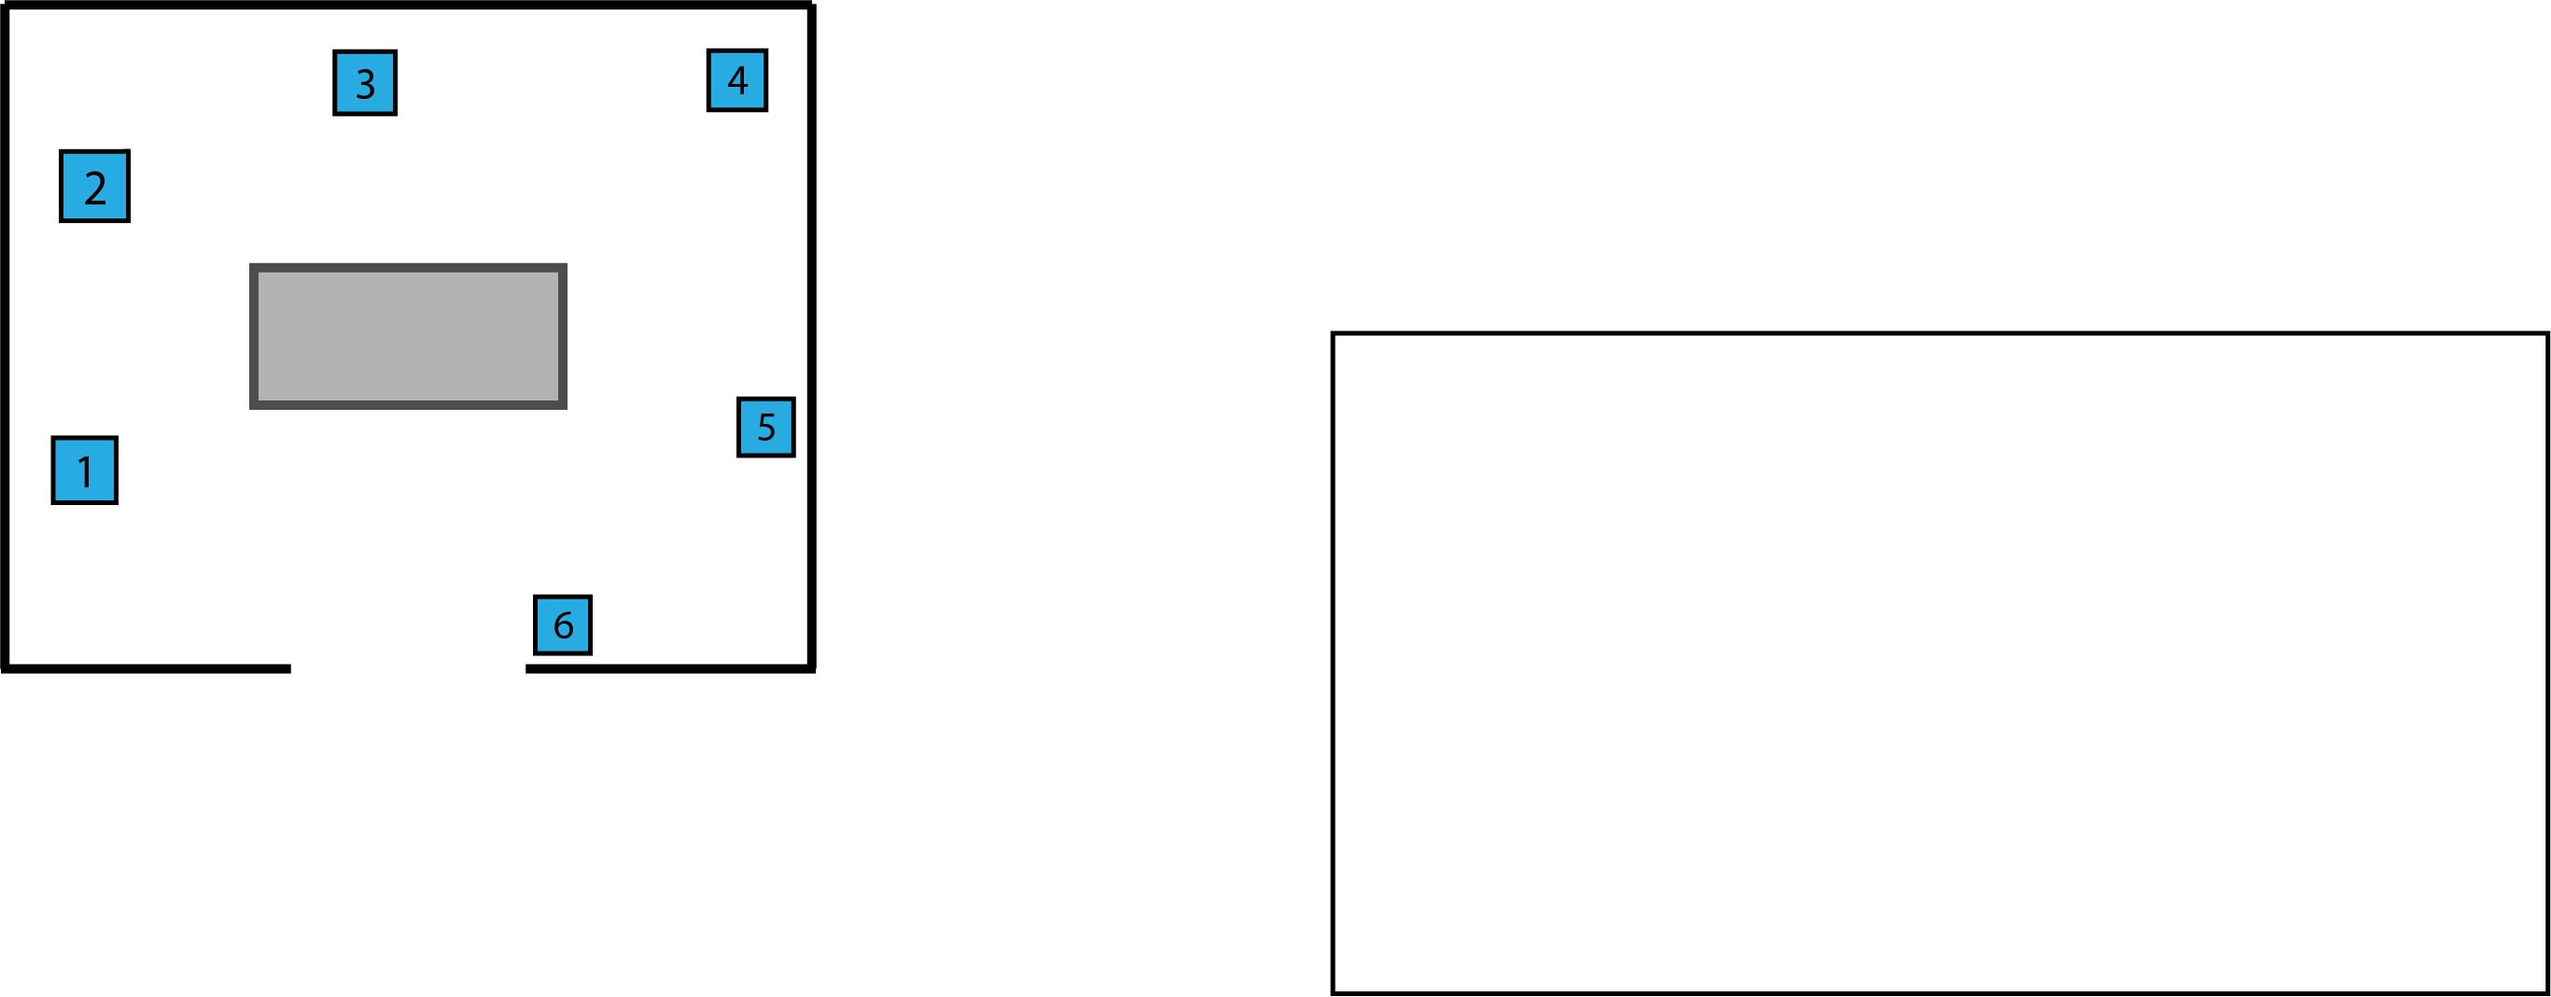
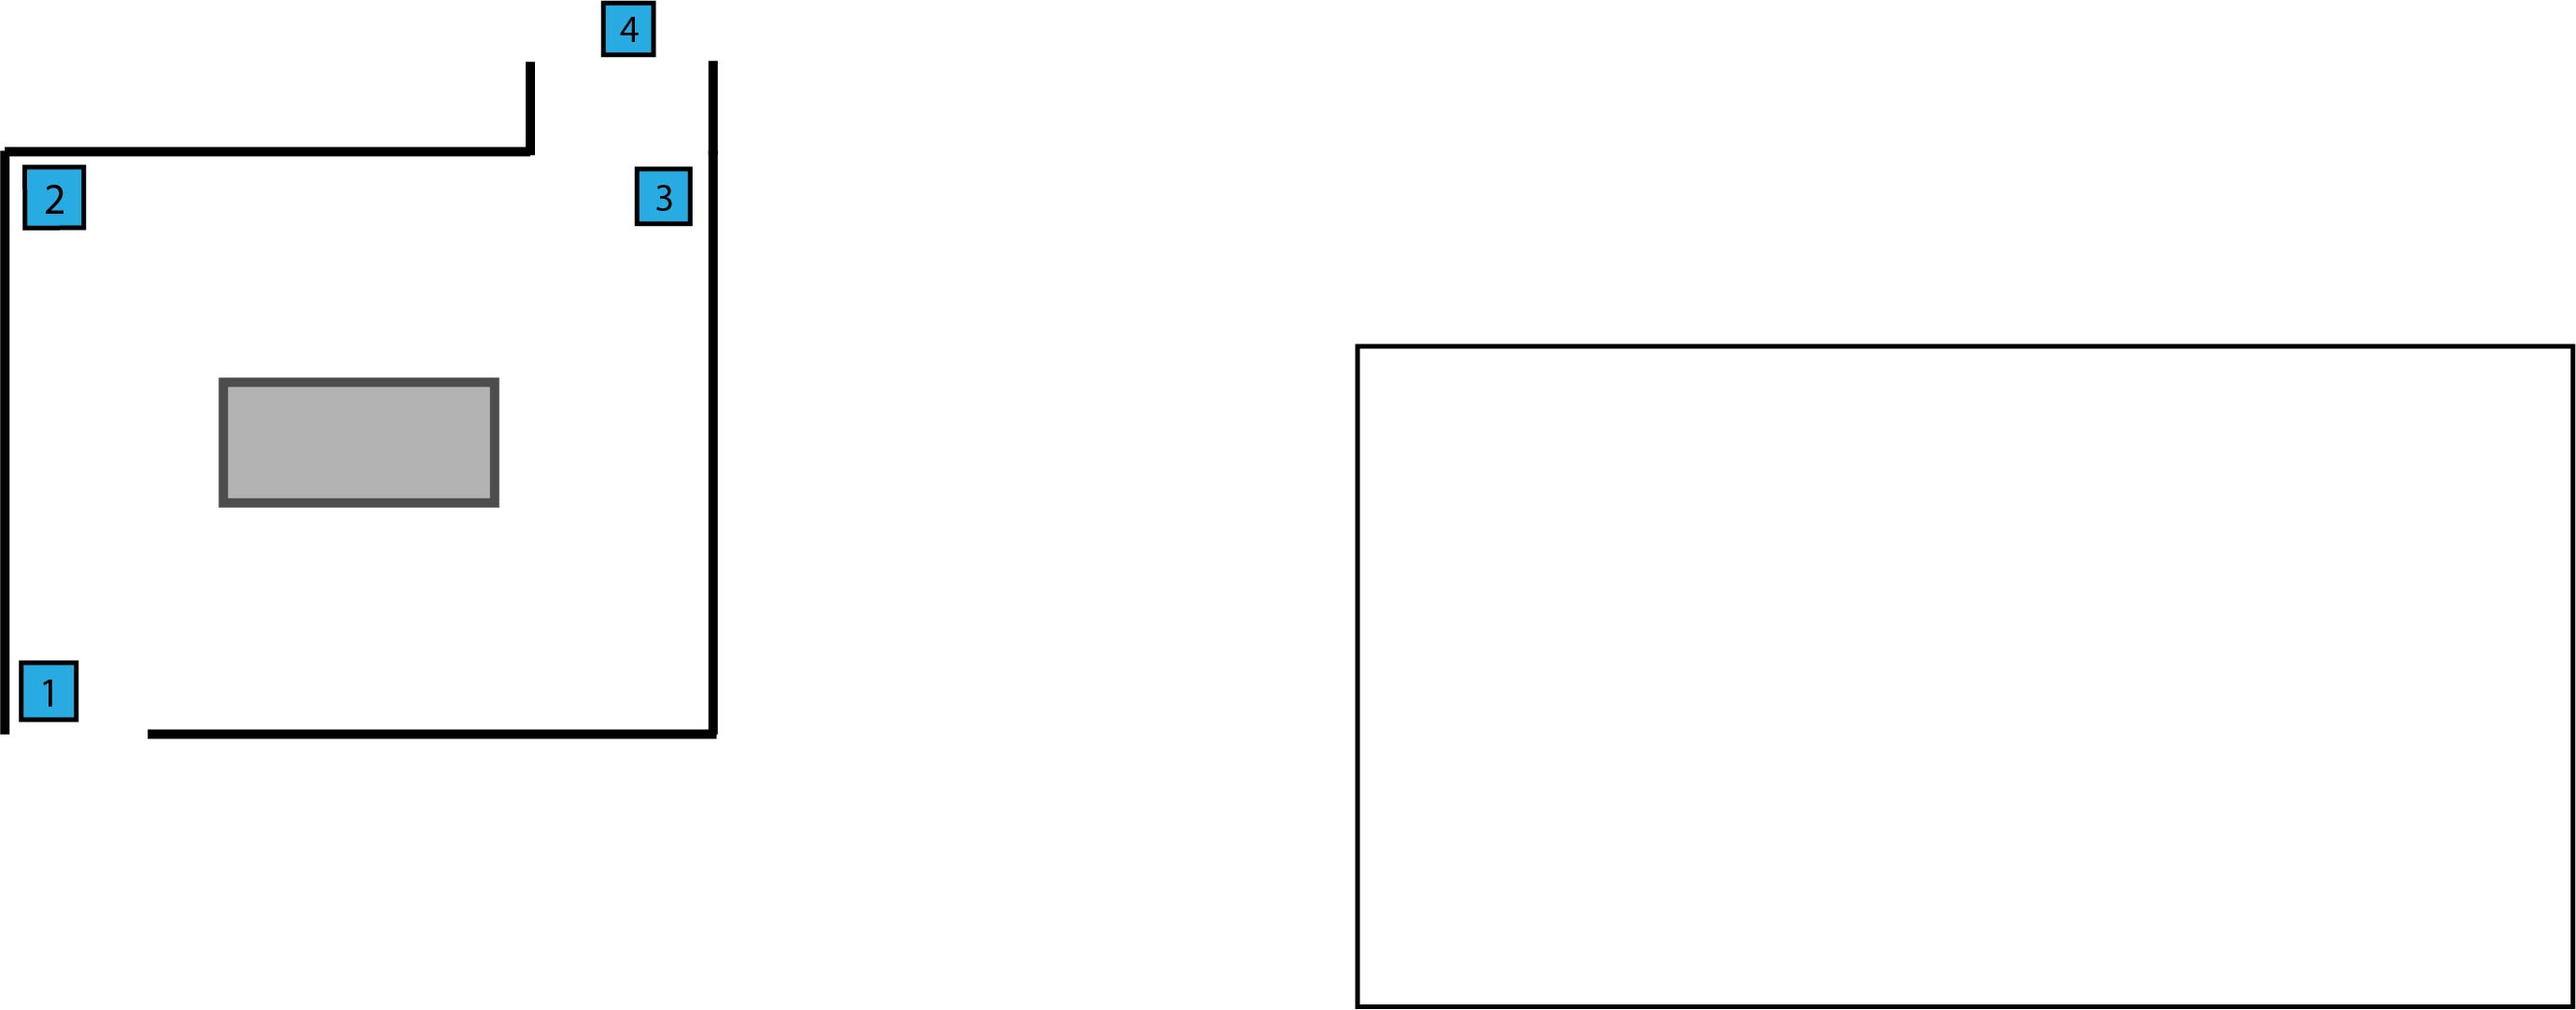
updated map ui

Changed region(s): [[0.0, 0.0, 0.3421, 0.7416], [0.4976, 0.309, 1.0, 1.0], [0.0, 0.6489, 0.1244, 0.7416]]

diff --git a/devastator/app/map_app/mini_map_new.py b/devastator/app/map_app/mini_map_new.py
@@ -1,7 +1,7 @@
 import pygame
 import socket
-from app.pygame_functions import *
-from app.helpers import *
+from pygame_functions import *
+from helpers import *
 
 #
 # pygame.init()
@@ -13,10 +13,10 @@ curr_x = 0.0
 curr_y = 0.0
 
 # # #note:
-# # #Marker 1 is at position (87,505) on map
-# # #Marker 2 is at position (98,200) on map
-# # #Mmarker 3 is at position (390,90) on map
-# # #Marker 4 is at position (790, 90) on map
+# # #Marker 1 is at position (50,740) on map
+# # #Marker 2 is at position (55,210) on map
+# # #Mmarker 3 is at position (715,210) on map
+# # #Marker 4 is at position (670, 40) on map
 # # #Marker 5 is at position (825,460) on map
 # # #Marker 6 is at position (600,665) on map
 
@@ -24,9 +24,9 @@ def init_pos (robot):
     global curr_x
     global curr_y
 
-    moveSprite(robot, 430, 720, True) #init position of robot
-    curr_x = 430
-    curr_y = 720
+    moveSprite(robot, 50, 740, True) #init position of robot
+    curr_x = 50
+    curr_y = 740
 
 def calculate_position(robot,information):
     global curr_x
@@ -37,8 +37,8 @@ def calculate_position(robot,information):
         angle_radians = float(angle_val)*(math.pi/180.0)
         distance_in_metres = information["distanceToMarker"]
         distance =  distance_in_metres * (720.0/3.87)
-        new_x = 87 + float(distance)*math.sin(angle_radians)
-        new_y = 505 + float(distance)*math.cos(angle_radians)
+        new_x = 50 + float(distance)*math.sin(angle_radians)
+        new_y = 740 + float(distance)*math.cos(angle_radians)
         curr_x = new_x
         curr_y  = new_y
         pause(600)
@@ -49,8 +49,8 @@ def calculate_position(robot,information):
         angle_radians = float(angle_val)*(math.pi/180.0)
         distance_in_metres = information["distanceToMarker"]
         distance =  distance_in_metres * (720.0/3.87)
-        new_x = 98 + float(distance)*math.sin(angle_radians)
-        new_y = 200 + float(distance)*math.cos(angle_radians)
+        new_x = 55 + float(distance)*math.sin(angle_radians)
+        new_y = 210 + float(distance)*math.cos(angle_radians)
         curr_x = new_x
         curr_y  = new_y
         pause(600)
@@ -61,8 +61,8 @@ def calculate_position(robot,information):
         angle_radians = float(angle_val)*(math.pi/180.0)
         distance_in_metres = information["distanceToMarker"]
         distance =  distance_in_metres * (720.0/3.87)
-        new_x = 390 + float(distance)*math.sin(angle_radians)
-        new_y = 90 + float(distance)*math.cos(angle_radians)
+        new_x = 715 + float(distance)*math.sin(angle_radians)
+        new_y = 210 + float(distance)*math.cos(angle_radians)
         curr_x = new_x
         curr_y  = new_y
         pause(600)
@@ -73,36 +73,36 @@ def calculate_position(robot,information):
         angle_radians = float(angle_val)*(math.pi/180.0)
         distance_in_metres = information["distanceToMarker"]
         distance =  distance_in_metres * (720.0/3.87)
-        new_x = 790 + float(distance)*math.sin(angle_radians)
-        new_y = 90 + float(distance)*math.cos(angle_radians)
+        new_x = 670 + float(distance)*math.sin(angle_radians)
+        new_y = 40 + float(distance)*math.cos(angle_radians)
         curr_x = new_x
         curr_y  = new_y
         pause(600)
         moveSprite(robot,new_x,new_y,True)
 
-    elif str(information["marker"]) =="5":
-        angle_val = information["angleToMarker"]
-        angle_radians = float(angle_val)*(math.pi/180.0)
-        distance_in_metres = information["distanceToMarker"]
-        distance =  distance_in_metres * (720.0/3.87)
-        new_x = 825 + float(distance)*math.sin(angle_radians)
-        new_y = 460 + float(distance)*math.cos(angle_radians)
-        curr_x = new_x
-        curr_y  = new_y
-        pause(600)
-        moveSprite(robot,new_x,new_y,True)
-
-    elif str(information["marker"]) =="6":
-        angle_val = information["angleToMarker"]
-        angle_radians = float(angle_val)*(math.pi/180.0)
-        distance_in_metres = information["distanceToMarker"]
-        distance =  distance_in_metres * (720.0/3.87)
-        new_x = 600 + float(distance)*math.sin(angle_radians)
-        new_y = 665 + float(distance)*math.cos(angle_radians)
-        curr_x = new_x
-        curr_y  = new_y
-        pause(600)
-        moveSprite(robot,new_x,new_y,True)
+    # elif str(information["marker"]) =="5":
+    #     angle_val = information["angleToMarker"]
+    #     angle_radians = float(angle_val)*(math.pi/180.0)
+    #     distance_in_metres = information["distanceToMarker"]
+    #     distance =  distance_in_metres * (720.0/3.87)
+    #     new_x = 825 + float(distance)*math.sin(angle_radians)
+    #     new_y = 460 + float(distance)*math.cos(angle_radians)
+    #     curr_x = new_x
+    #     curr_y  = new_y
+    #     pause(600)
+    #     moveSprite(robot,new_x,new_y,True)
+    #
+    # elif str(information["marker"]) =="6":
+    #     angle_val = information["angleToMarker"]
+    #     angle_radians = float(angle_val)*(math.pi/180.0)
+    #     distance_in_metres = information["distanceToMarker"]
+    #     distance =  distance_in_metres * (720.0/3.87)
+    #     new_x = 600 + float(distance)*math.sin(angle_radians)
+    #     new_y = 665 + float(distance)*math.cos(angle_radians)
+    #     curr_x = new_x
+    #     curr_y  = new_y
+    #     pause(600)
+    #     moveSprite(robot,new_x,new_y,True)
 
 def place_marker(information):
     if information["objectsDetected"] == "SUSPECT":

diff --git a/devastator/main.py b/devastator/main.py
@@ -37,8 +37,83 @@ if __name__ == "__main__":
 
     """
     while True:
-        get_frame()
-        yolo_detect()
-        acoular_detect()
-        send_to_app()
-    """
+        frame = main()[0]
+        detection = main()[1] #gives a list of dictionaries
+
+        #### assume data structure of detection is:
+        #### eg. detection = [{"depth":0.762,"danger_score":3.44,"equip":[{"label":"Rifle","box":{}}],"label":"Person","box":{}},{"depth":0.762,"danger_score":3.44,"equip":[{"label":"Rifle","box":{}},{"label":"Handgun","box":{}}],"label":"Person","box":{}}]
+        StoreArgs.person_count = len(detection)
+
+        for i in detection:
+            for j in i["equip"]:
+                if j["label"] == "Rifle":
+                    StoreArgs.rifle_count += 1
+
+                elif j["label"] == "Handgun":
+                    StoreArgs.handgun_count += 1
+
+                elif j["label"] == "Knife":
+                    StoreArgs.knife_count += 1
+
+                elif j["label"] == "Jacket":
+                    StoreArgs.jacket_count += 1
+
+                elif j["label"] == "Sunglasses":
+                    StoreArgs.sunglass_count += 1
+
+                elif j["label"] == "Police":
+                    StoreArgs.police_count += 1
+
+                elif j["label"] == "Hat":
+                    StoreArgs.hat_count += 1
+
+        ###format the data for objects of interest to parse into report ui app
+        StoreArgs.obj_of_interest = "Handgun: " + str(StoreArgs.handgun_count) + "  <p/> " + "Jacket: " + str(StoreArgs.jacket_count) + " <p/> " + "Knife: " + str(StoreArgs.knife_count) + " <p/> " + "Person: " + str(StoreArgs.person_count) + " <p/> " + "Rifle " + str(rifle_count) + " <p/> " + "Sunglasses: " + str(StoreArgs.sunglass_count) + " <p/> " + "Police: " + str(StoreArgs.police_count) + " <p/> "
+        JSON_INFO = {
+            "data": {
+                "logs1": {
+                    "Time_Stamp": "12:10:17",
+                    "Robot_Coordinates": "x,y,z",
+                    "Threat_Direction": "x,y,z",
+                    "Emotions_Present": "Fear",
+                    "Gunshots": "Detected",
+                    "Objects_Of_Interest": StoreArgs.obj_of_interest,
+                    "More_Details": "<a href= www.google.com.sg>www.viewmorehere.com  </a>"
+                }
+            }
+        }
+
+
+
+
+        # #--------- get yolo frame ---------
+        # input_stream = StoreArgs.input_stream
+        # host = StoreArgs.host
+        # port = StoreArgs.port
+        #
+        # frame = get_frame(input_stream, host, port) #host and port from call_yolo_display
+        #
+        # # ------------------------------------------- Loading model to the plugin -----------------------------------------
+        # device = StoreArgs.device
+        # labels = StoreArgs.labels
+        # model_xml = StoreArgs.model_xml
+        # model_bin = StoreArgs.model_bin
+        # plugin_dir = StoreArgs.plugin_dir
+        # cpu_extension = StoreArgs.cpu_extension
+        #
+        # net, exec_net = load_model(device, labels, model_xml, model_bin, plugin_dir, cpu_extension)
+        #
+        # #----------------------- yolo detection ------------------------
+        # # mapping labels
+        # labels_map = StoreArgs.labels_map
+        # prob_thresh = StoreArgs.prob_thresh
+        # iou_thresh = StoreArgs.iou_thresh
+        # depth_given = StoreArgs.depth_given
+        #
+        # detection = detect(frame, net, exec_net, labels_map, prob_thresh, iou_thresh, depth_given) #gives a list of dictionaries?
+
+        #------------------------ aruco
+        # get_frame()
+        # yolo_detect()
+        # acoular_detect()
+        # send_to_app()

diff --git a/devastator/vision/store_args.py b/devastator/vision/store_args.py
@@ -24,6 +24,7 @@ HAT_COUNT = 0
 SUN_GLASSES_COUNT = 0
 PERSON_COUNT = 0
 POLICE_COUNT = 0
+OBJ_OF_INTEREST = ""
 
 
 #----------------------- detection ------------------------
@@ -53,7 +54,8 @@ class StoreArgs:
                  jacket_count=JACKET_COUNT,
                  hat_count=HAT_COUNT,
                  police_count=POLICE_COUNT,
-                 knife_count=KNIFE_COUNT
+                 knife_count=KNIFE_COUNT,
+                 obj_of_interest=OBJ_OF_INTEREST
 
                  ):
         # self.input_stream = input_stream
@@ -77,4 +79,5 @@ class StoreArgs:
         self.hat_count = hat_count
         self.jacket_count = jacket_count
         self.sunglass_count = sunglass_count
+        self.obj_of_interest = obj_of_interest
 

diff --git a/devastator/app/map_app/pygame_functions.py b/devastator/app/map_app/pygame_functions.py
@@ -76,7 +76,7 @@ class Background():
         self.tileHeight = self.tiles[0][0].get_height()
         screen.blit(self.tiles[0][0], [0, 0])
         ### below to render the button in the app
-        screen.blit(override_button,(630,730))
+        screen.blit(override_button,(200,50))
         pygame.display.flip()
         self.surface = screen.copy()
 
